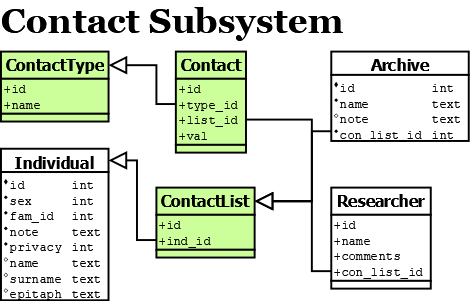
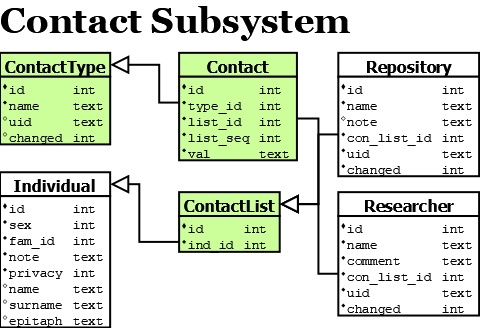
Website, update development manual description of database Contact subsystem.

diff --git a/website/dev/man/db/sub/contact.htm b/website/dev/man/db/sub/contact.htm
@@ -55,12 +55,6 @@
 </p>
 
 <h3>Contact List</h3>
-<table class="basic rfloat">
- <tr><th colspan="3">ContactList table Core Data</th></tr>
- <tr><th>[id]</th><th>[ind_id]</th><th> </th></tr>
- <tr><td>0</td><td>NULL</td><td>List associated with Unstated Reasearcher</td></tr>
- <tr><td>1</td><td>NULL</td><td>List associated with initial default Reasearcher</td></tr>
-</table>
 <p>
  This table is used to collect the various contact values available for a single entity.
  It is expected that most contact lists will be associated with Individuals
@@ -69,26 +63,29 @@
 </p>
 <p>
  The Contact List may also be pointed to by a Researcher entry
- (and thus indirectly by a User) and by a Repository.
+ and this is the means of connecting a Researcher's to an Individual in the database.
 </p>
-
+<p>
+  A Repository record can also point to a ContactList  to record its contact details.
+</p>
 <h3>Contact</h3>
 <p>
- The Contact value <span class="field">[val]</span> is normally a text string,
- but could in some cases be a number or ID.
+ The Contact value <span class="field">[val]</span> is a multi line text string.
+ A future version may use this for an ID number, to point to an Place record.
 </p>
 
 <h3>Contact Type</h3>
 
 <table class="basic rfloat">
- <tr><th colspan="3">ContactType table Core Data</th></tr>
- <tr><th>[id]</th><th>[name]</th><th> </th></tr>
- <tr><td>0</td><td> </td><td>Unstated type</td></tr>
- <tr><td>-1</td><td>Address</td><td></td></tr>
- <tr><td>-2</td><td>Telephone</td><td></td></tr>
- <tr><td>-3</td><td>Mobile</td><td></td></tr>
- <tr><td>-4</td><td>Email</td><td></td></tr>
- <tr><td>-5</td><td>Website</td><td></td></tr>
+ <tr><th colspan="5">ContactType table Core Data</th></tr>
+ <tr><th>[id]</th><th>[name]</th><th>[uid]</th><th>[changed]</th><th> </th></tr>
+ <tr><td>0</td><td> </td><td></td><td></td><td>Unstated type</td></tr>
+ <tr><td>-1</td><td>Address</td><td>88815CB7641A5C15A6B47B40E69DE654DD52</td><td>2459664</td><td></td></tr>
+ <tr><td>-2</td><td>Telephone</td><td>7143E6D4D916C849F2B4FC6554AE5B421483</td><td>2459664</td><td></td></tr>
+ <tr><td>-3</td><td>Mobile</td><td>D5914CBACD1E86412EB4771C1E015BCBD882</td><td>2459664</td><td></td></tr>
+ <tr><td>-4</td><td>Email</td><td>2A56952B37D688AD0F795B059A82619E857A</td><td>2459664</td><td></td></tr>
+ <tr><td>-5</td><td>Website</td><td>0913E9393D6F676F74252E9F18516D201CFD</td><td>2459664</td><td></td></tr>
+ <tr><td>-6</td><td>Fax</td><td>D717ACECD3D1DF6E663C9788BFB330350F50</td><td>2459664</td><td></td></tr>
 </table>
 
 <p>
